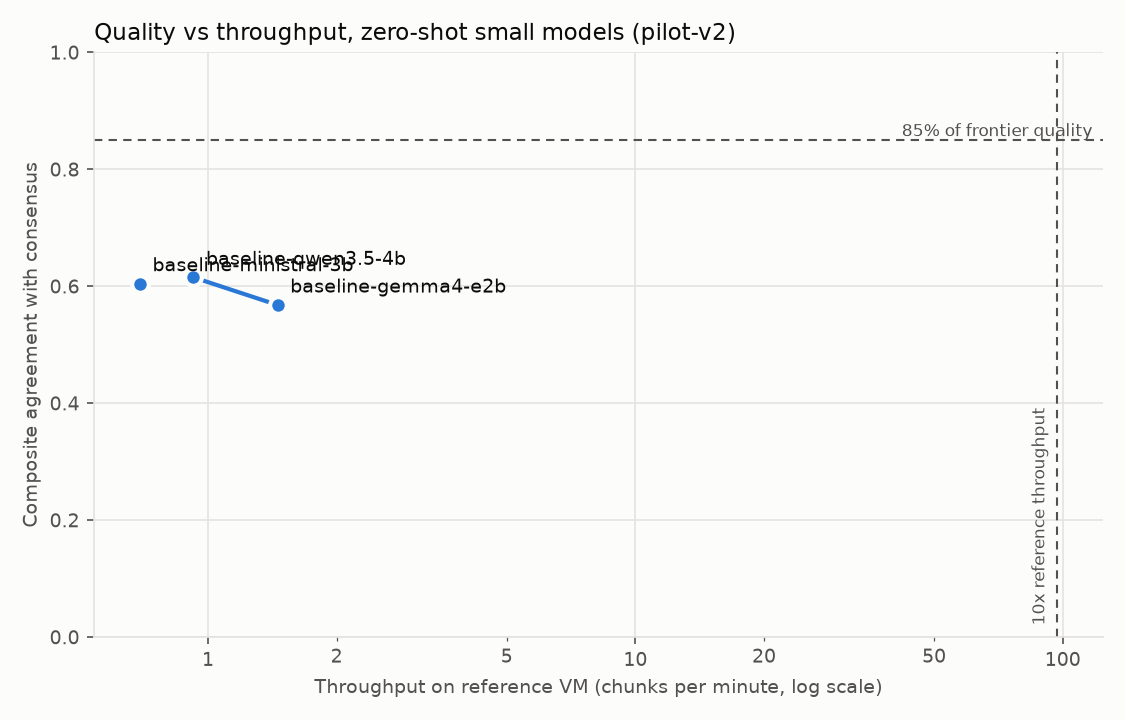
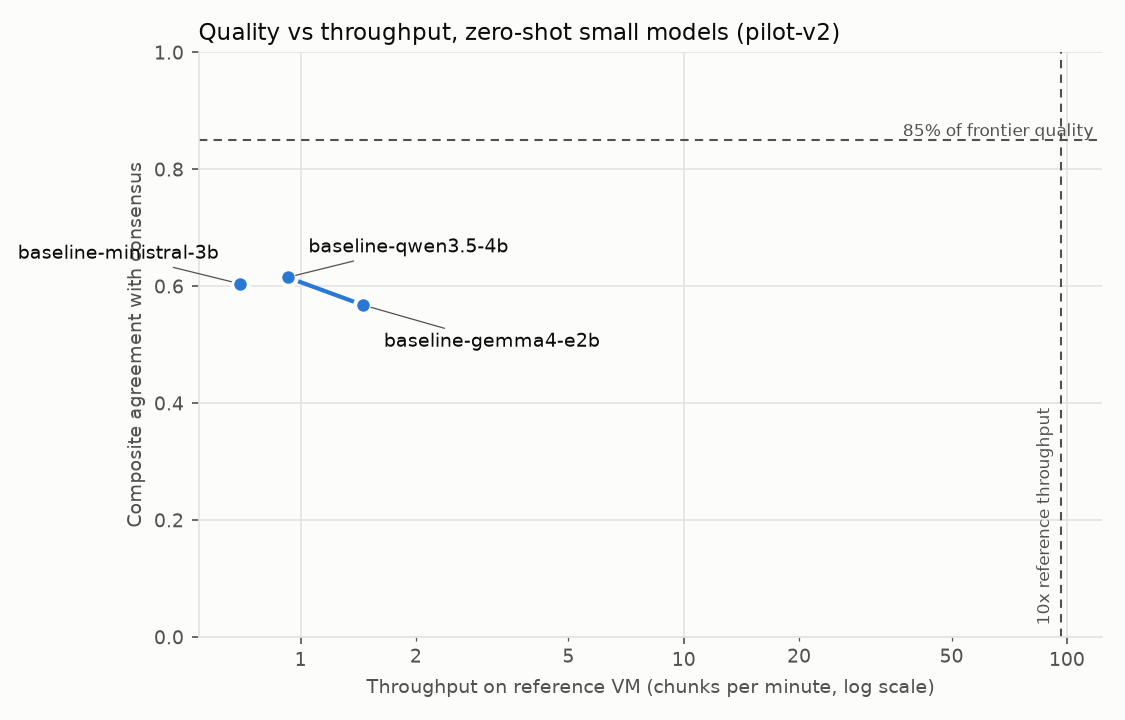
004 T043/T044: results 0.1.0, release check passed, Pareto chart with readable labels

diff --git a/src/mobility_model_zoo/productdev/jtbd/report/pareto.py b/src/mobility_model_zoo/productdev/jtbd/report/pareto.py
@@ -83,10 +83,6 @@ def draw(points: list[tuple[str, float, float]], out: Path, *, version: str,
         legend = ax.legend(loc="lower right", fontsize=8, frameon=False)
         for text in legend.get_texts():
             text.set_color(TEXT_SECONDARY)
-    for name, x, y in points + students:
-        ax.annotate(name, (x, y), xytext=(6, 6), textcoords="offset points", fontsize=9,
-                    color=TEXT_PRIMARY)
-
     ax.set_xlabel("Throughput on reference VM (chunks per minute, log scale)",
                   color=TEXT_SECONDARY, fontsize=9)
     ax.set_ylabel(ylabel or "Composite agreement with consensus", color=TEXT_SECONDARY,
@@ -95,6 +91,31 @@ def draw(points: list[tuple[str, float, float]], out: Path, *, version: str,
                  loc="left", color=TEXT_PRIMARY, fontsize=11)
     ys = [p[2] for p in points + students] + ([quality_bar] if quality_bar is not None else [])
     ax.set_ylim(min(0.0, min(ys) - 0.05), max(1.0, max(ys) + 0.05))
+    # Each label takes the first of four positions around its point that overlaps no label or
+    # point drawn before it.
+    fig.tight_layout()
+    fig.canvas.draw()  # final limits and layout, so label boxes are measured where drawn
+    renderer = fig.canvas.get_renderer()
+    taken = [ax.transData.transform((x, y)) for _, x, y in points + students]
+    boxes: list = []
+    offsets = [((10, 12), "left"), ((10, -20), "left"), ((-10, 12), "right"), ((-10, -20), "right")]
+    leader = {"arrowstyle": "-", "color": TEXT_SECONDARY, "linewidth": 0.6, "shrinkA": 0,
+              "shrinkB": 4}
+    for name, x, y in sorted(points + students, key=lambda p: (p[1], p[2])):
+        for (dx, dy), ha in offsets:
+            label = ax.annotate(name, (x, y), xytext=(dx, dy), textcoords="offset points",
+                                fontsize=9, color=TEXT_PRIMARY, ha=ha, arrowprops=leader)
+            box = label.get_window_extent(renderer).expanded(1.02, 1.1)
+            hits_point = any(box.contains(px, py) for px, py in taken)
+            if not hits_point and not any(box.overlaps(b) for b in boxes):
+                break
+            label.remove()
+        else:
+            label = ax.annotate(name, (x, y), xytext=(10, 12), textcoords="offset points",
+                                fontsize=9, color=TEXT_PRIMARY, arrowprops=leader)
+            box = label.get_window_extent(renderer)
+        boxes.append(box)
+
     out.parent.mkdir(parents=True, exist_ok=True)
     fig.tight_layout()
     fig.savefig(out, facecolor=SURFACE)

diff --git a/src/mobility_model_zoo/productdev/jtbd/span/results.py b/src/mobility_model_zoo/productdev/jtbd/span/results.py
@@ -21,6 +21,7 @@ from mobility_model_zoo.productdev.jtbd.jsonio import read_json, write_json
 from mobility_model_zoo.productdev.jtbd.runs import load_run_manifest
 from mobility_model_zoo.productdev.jtbd.scoring import comparison_composite
 from mobility_model_zoo.productdev.jtbd.span.evaluate import (
+    MODEL_ID,
     dataset_settings,
     load_candidates,
     save_candidates,
@@ -328,7 +329,8 @@ def pareto(settings: Settings, recipe_file: str | None = None) -> dict[str, Any]
             raise ValidationFailed(f"candidate {candidate['candidate_id']} has no perf file")
         names = score["comparison_composite"]["dimensions"]
         version = score["benchmark_version"]
-        students.append((f"{candidate['candidate_id']} (span)", perf["chunks_per_min"],
+        students.append((f"{MODEL_ID} ({candidate['candidate_id']})",
+                         perf["chunks_per_min"],
                          score["comparison_composite"]["value"]))
     baseline_perf, _ = load_perf(settings)
     table = comparisons(settings, names)
@@ -338,12 +340,12 @@ def pareto(settings: Settings, recipe_file: str | None = None) -> dict[str, Any]
                  and baseline_perf[b["model_id"]].get("chunks_per_min")
                  and b["comparison_composite"] is not None]
     out = settings.base / FIGURE
-    dims_text = ", ".join(n.replace("_", " ") for n in names)
-    figure = draw(baselines, out.with_suffix(".png"), version=version,
+    shown = [(n.removeprefix("baseline-"), x, y) for n, x, y in baselines]  # shorter labels
+    figure = draw(shown, out.with_suffix(".png"), version=version,
                   quality_bar=table["reference_share_mark"], throughput_bar=None,
                   students=students,
                   title=f"Quality vs throughput, span candidates and baselines ({version})",
-                  ylabel=f"Comparison composite ({dims_text})")
+                  ylabel=f"Comparison composite ({len(names)} dimensions)")
     points = {"benchmark_version": version, "dimensions": names,
               "reference_85pct": table["reference_share_mark"],
               "baselines": [{"model_id": n, "chunks_per_min": x, "comparison_composite": y}

diff --git a/tests/unit/test_pareto_student.py b/tests/unit/test_pareto_student.py
@@ -49,8 +49,8 @@ def test_candidates_are_plotted_with_the_baselines(tmp_path):
     assert (work / "docs/recipes/figures/scout-large-pareto.png").stat().st_size
     assert points["dimensions"] == NAMES and points["benchmark_version"] == "mini-v1"
     assert [p["model_id"] for p in points["baselines"]] == ["mock-small"]
-    assert [p["model_id"] for p in points["candidates"]] == ["c1 (span)", "c2 (span)"]
-    assert "c1 (span)" in out["front"] and "c2 (span)" not in out["front"]
+    assert [p["model_id"] for p in points["candidates"]] == ["scout-large (c1)", "scout-large (c2)"]
+    assert "scout-large (c1)" in out["front"] and "scout-large (c2)" not in out["front"]
 
 
 def test_pareto_front_keeps_undominated_points():

diff --git a/reports/pilot-v2/report.md b/reports/pilot-v2/report.md
@@ -115,6 +115,12 @@ Breakdowns (score / n):
 | run-reference-gpt-mini-reference-main-6b5662fa | consistency.quantified_has_quantity | 0.909 | 165 |
 | run-reference-gpt-mini-reference-main-6b5662fa | quote_verbatim | 0.849 | 1348 |
 | run-reference-gpt-mini-reference-main-6b5662fa | schema_valid | 1.000 | 150 |
+| run-student-scout-large-c1-932c33e3a85a-main-6b5662fa | consistency.irrelevant_no_items | 1.000 | 150 |
+| run-student-scout-large-c1-932c33e3a85a-main-6b5662fa | consistency.span_dimensions | 1.000 | 1441 |
+| run-student-scout-large-c1-932c33e3a85a-main-6b5662fa | consistency.span_dimensions_declared | 1.000 | 150 |
+| run-student-scout-large-c1-932c33e3a85a-main-6b5662fa | consistency.span_order | 1.000 | 150 |
+| run-student-scout-large-c1-932c33e3a85a-main-6b5662fa | quote_verbatim | 1.000 | 1441 |
+| run-student-scout-large-c1-932c33e3a85a-main-6b5662fa | schema_valid | 1.000 | 150 |
 | run-teacher_candidate-teacher-ensemble-main-6b5662fa | consistency.enum_values | 1.000 | 1488 |
 | run-teacher_candidate-teacher-ensemble-main-6b5662fa | consistency.irrelevant_no_items | 1.000 | 150 |
 | run-teacher_candidate-teacher-ensemble-main-6b5662fa | consistency.quantified_has_quantity | 0.914 | 244 |
@@ -159,6 +165,7 @@ No revisions file (`revisions.md`) yet.
 | baseline-gemma4-e4b | baseline | 0.679 | 0.638 | 0.814 | 0.701 | 0.398 | 0.772 | 0.667 | 0.667 | 0.969 | n/a | n/a | n/a |
 | baseline-ministral-3b | baseline | 0.530 | 0.457 | 0.725 | 0.735 | 0.684 | 0.495 | 0.604 | 0.604 | 0.878 | 0.693 | 137400.408 | 4900.000 |
 | baseline-qwen3.5-4b | baseline | 0.527 | 0.526 | 0.729 | 0.611 | 0.836 | 0.463 | 0.615 | 0.615 | 0.893 | 0.925 | 128599.887 | 4411.500 |
+| scout-large | student | 0.539 | 0.588 | 0.832 | 0.774 | 0.849 | 0.758 | 0.723 | 0.723 | 1.051 | 21.620 | n/a | 2547.500 |
 | teacher-ensemble | teacher_candidate | 1.000 | 0.779 | 0.922 | 0.949 | 0.944 | 0.909 | 0.917 | 0.917 | 1.332 | n/a | n/a | n/a |
 | teacher-or-deepseek-v4.1-flash | teacher_candidate | 0.658 | 0.700 | 0.919 | 0.944 | 0.916 | 0.877 | 0.836 | 0.836 | 1.214 | n/a | n/a | n/a |
 | teacher-or-glm-5.3-flash | teacher_candidate | 0.079 | 0.000 | n/a | n/a | n/a | n/a | 0.039 | 0.039 | 0.057 | n/a | n/a | n/a |
@@ -185,7 +192,7 @@ Recommended teacher: **teacher-or-mimo-v2.6-pro**.
 
 Raw scores and the verbatim check use the outputs as returned; the repaired view replaces near-miss quotes by the source passage (FR-026a), as the training data will. The classification does not change the go/revise/rethink decision.
 
-Contested reference items matched by a model are scored neutrally (FR-028); counts per model: baseline-gemma4-e2b {'evidence_scope': 77, 'evidence_type': 105, 'item_existence': 281, 'kind': 46, 'actor_type': 47, 'relevance': 3}; baseline-gemma4-e4b {'item_existence': 390, 'evidence_scope': 108, 'evidence_type': 154, 'kind': 60, 'actor_type': 72, 'relevance': 3}; baseline-ministral-3b {'evidence_scope': 49, 'evidence_type': 93, 'item_existence': 216, 'actor_type': 50, 'kind': 37, 'relevance': 3}; baseline-qwen3.5-4b {'item_existence': 251, 'evidence_scope': 72, 'evidence_type': 99, 'actor_type': 38, 'kind': 37, 'relevance': 3}; teacher-ensemble {'evidence_scope': 135, 'evidence_type': 188, 'item_existence': 619, 'actor_type': 104, 'kind': 83, 'relevance': 3}; teacher-or-deepseek-v4.1-flash {'evidence_scope': 131, 'evidence_type': 169, 'item_existence': 573, 'actor_type': 86, 'kind': 73, 'relevance': 3}; teacher-or-glm-5.3-flash {'relevance': 3}; teacher-or-mimo-v2.6-pro {'evidence_scope': 138, 'evidence_type': 187, 'item_existence': 599, 'actor_type': 98, 'kind': 85, 'relevance': 3}; teacher-qwen3.8 {'evidence_scope': 113, 'evidence_type': 169, 'item_existence': 383, 'actor_type': 86, 'kind': 65, 'relevance': 3}.
+Contested reference items matched by a model are scored neutrally (FR-028); counts per model: baseline-gemma4-e2b {'evidence_scope': 77, 'evidence_type': 105, 'item_existence': 281, 'kind': 46, 'actor_type': 47, 'relevance': 3}; baseline-gemma4-e4b {'item_existence': 390, 'evidence_scope': 108, 'evidence_type': 154, 'kind': 60, 'actor_type': 72, 'relevance': 3}; baseline-ministral-3b {'evidence_scope': 49, 'evidence_type': 93, 'item_existence': 216, 'actor_type': 50, 'kind': 37, 'relevance': 3}; baseline-qwen3.5-4b {'item_existence': 251, 'evidence_scope': 72, 'evidence_type': 99, 'actor_type': 38, 'kind': 37, 'relevance': 3}; scout-large {'evidence_scope': 105, 'evidence_type': 145, 'item_existence': 486, 'actor_type': 81, 'kind': 73, 'relevance': 3}; teacher-ensemble {'evidence_scope': 135, 'evidence_type': 188, 'item_existence': 619, 'actor_type': 104, 'kind': 83, 'relevance': 3}; teacher-or-deepseek-v4.1-flash {'evidence_scope': 131, 'evidence_type': 169, 'item_existence': 573, 'actor_type': 86, 'kind': 73, 'relevance': 3}; teacher-or-glm-5.3-flash {'relevance': 3}; teacher-or-mimo-v2.6-pro {'evidence_scope': 138, 'evidence_type': 187, 'item_existence': 599, 'actor_type': 98, 'kind': 85, 'relevance': 3}; teacher-qwen3.8 {'evidence_scope': 113, 'evidence_type': 169, 'item_existence': 383, 'actor_type': 86, 'kind': 65, 'relevance': 3}.
 
 Frontier reference throughput (GPT mini tier, concurrency 1): 9.677 chunks/min. hosted throughput depends on routing and provider rate limits.
 

diff --git a/specs/004-production-span-model/tasks.md b/specs/004-production-span-model/tasks.md
@@ -95,7 +95,7 @@ The spike code in `spike/span_model.py`, `spike/train_span.py`, `spike/eval_span
 - [X] T041 *(not needed: c1 meets the bar and the budget.)* **(ops)** [US1] Only if c1 misses the bar or the budget for a reason with a concrete fix decided **before** evaluation (for example the speed fallback of research R13: int8 dynamic quantization, then XLM-RoBERTa-base): train and evaluate c2 (and at most c3) the same way, with the change written into `--candidate-change`.
 - [X] T042 *(2026-10-07 on Railway (4 vCPU / 8 GB, AMD EPYC 9655P), model fetched from the private staging repo branch candidate-c1: latency for 9k chars 8.1 s and 7.5 s, peak RSS 2.55 / 2.54 GB, 21.6 / 22.0 chunks/min; loader changed to load weights once (identical outputs). Selected: c1.)* **(ops)** [US1] Reference VM: provision the 8 GB / 4 vCPU / no-GPU VM (the pilot's type), install `uv` and the repository with the base install plus `[jtbd]`, copy every model directory evaluated in T040–T041, verify each SHA-256 against its `student` run, run `uv run jtbd perf --backend span --model-dir <dir> --hardware "<provider type>, 8 GB RAM, 4 vCPU, no GPU"` for each candidate (Principle III: every change is measured on quality and speed), copy `analysis/perf/` back, run `uv run jtbd span select` (the rule fixed in `span-xlmr.yaml` before training) only now, delete the VM, and record its cost with `uv run jtbd --config configs/productdev/jtbd/span-train-v1.yaml budget --add "reference VM" --eur <n>`.
 - [X] T043 [US1] Extend `src/mobility_model_zoo/productdev/jtbd/report/pareto.py` so that `student` runs with a perf file are plotted next to the pilot baselines on the same benchmark version: comparison composite (y) against chunks per minute on the reference hardware (x), each candidate labelled with its ID and the benchmark version. Write the figure to `docs/recipes/figures/scout-large-pareto.png` and the points to `docs/recipes/figures/scout-large-pareto.json`. Needs the pilot baselines' perf files from the reference VM (001 T074). Test with fixture score and perf files in `tests/unit/test_pareto_student.py` (constitution gate before reporting a result).
-- [ ] T044 [US1] `uv run jtbd span results --run <selected run> --perf <perf file> --version 0.1.0` and `uv run jtbd span release-check --version 0.1.0`. If it exits 1: write `specs/004-production-span-model/outcome.md` with the measured results, label them as an unpublished model, and stop before Phase 4. Commit the results files only if the bar passes.
+- [X] T044 *(2026-10-07: release-check passed, all conditions met; results in zoo/models/scout-large/results/0.1.0/.)* [US1] `uv run jtbd span results --run <selected run> --perf <perf file> --version 0.1.0` and `uv run jtbd span release-check --version 0.1.0`. If it exits 1: write `specs/004-production-span-model/outcome.md` with the measured results, label them as an unpublished model, and stop before Phase 4. Commit the results files only if the bar passes.
 
 **Checkpoint**: A measured model and a release-bar verdict exist (MVP). Everything after this point publishes it.
 
